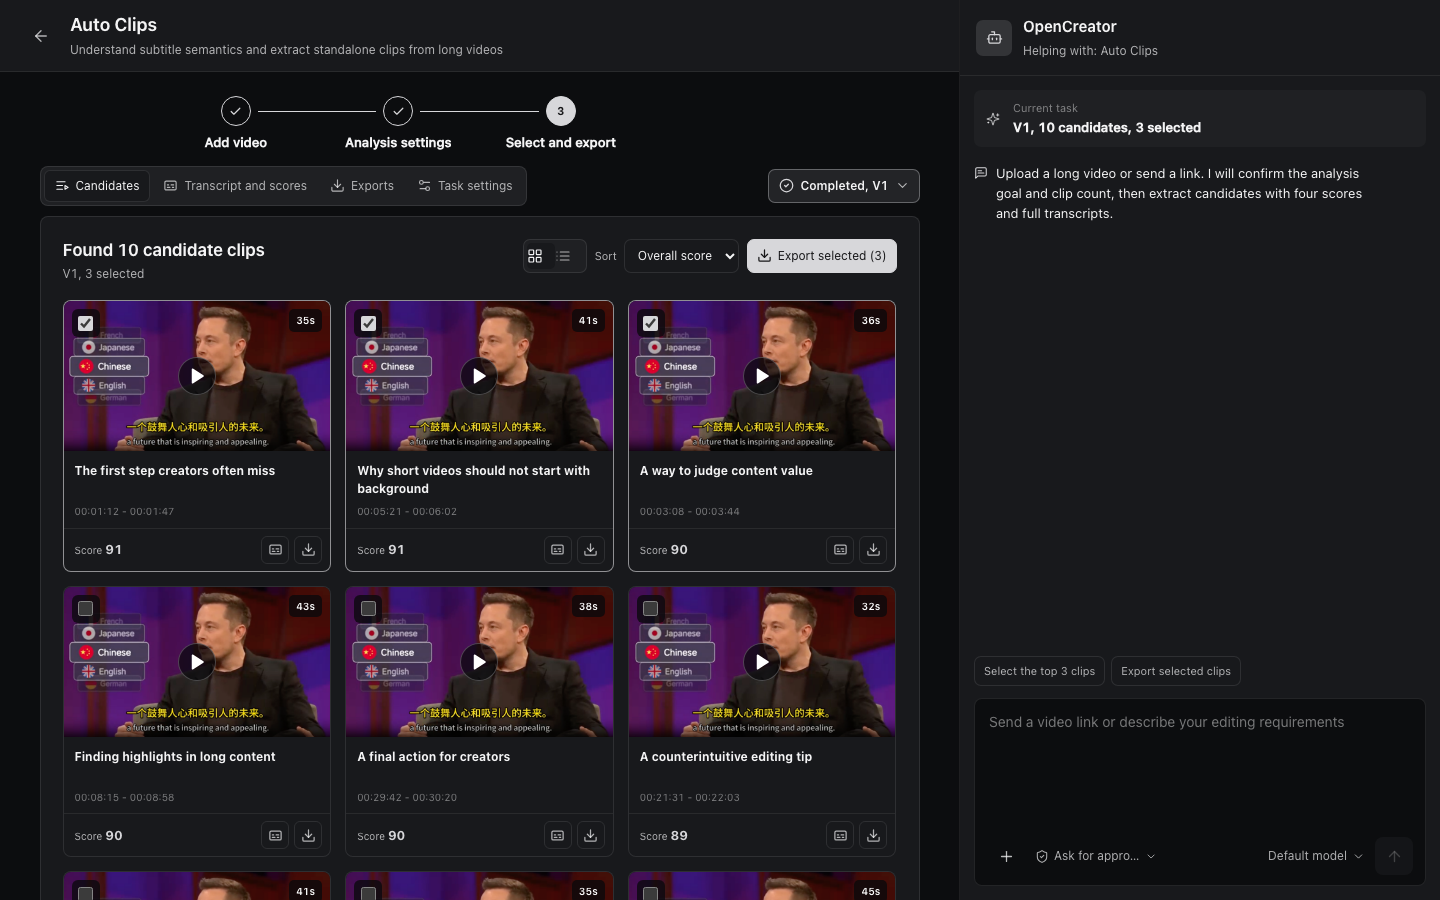
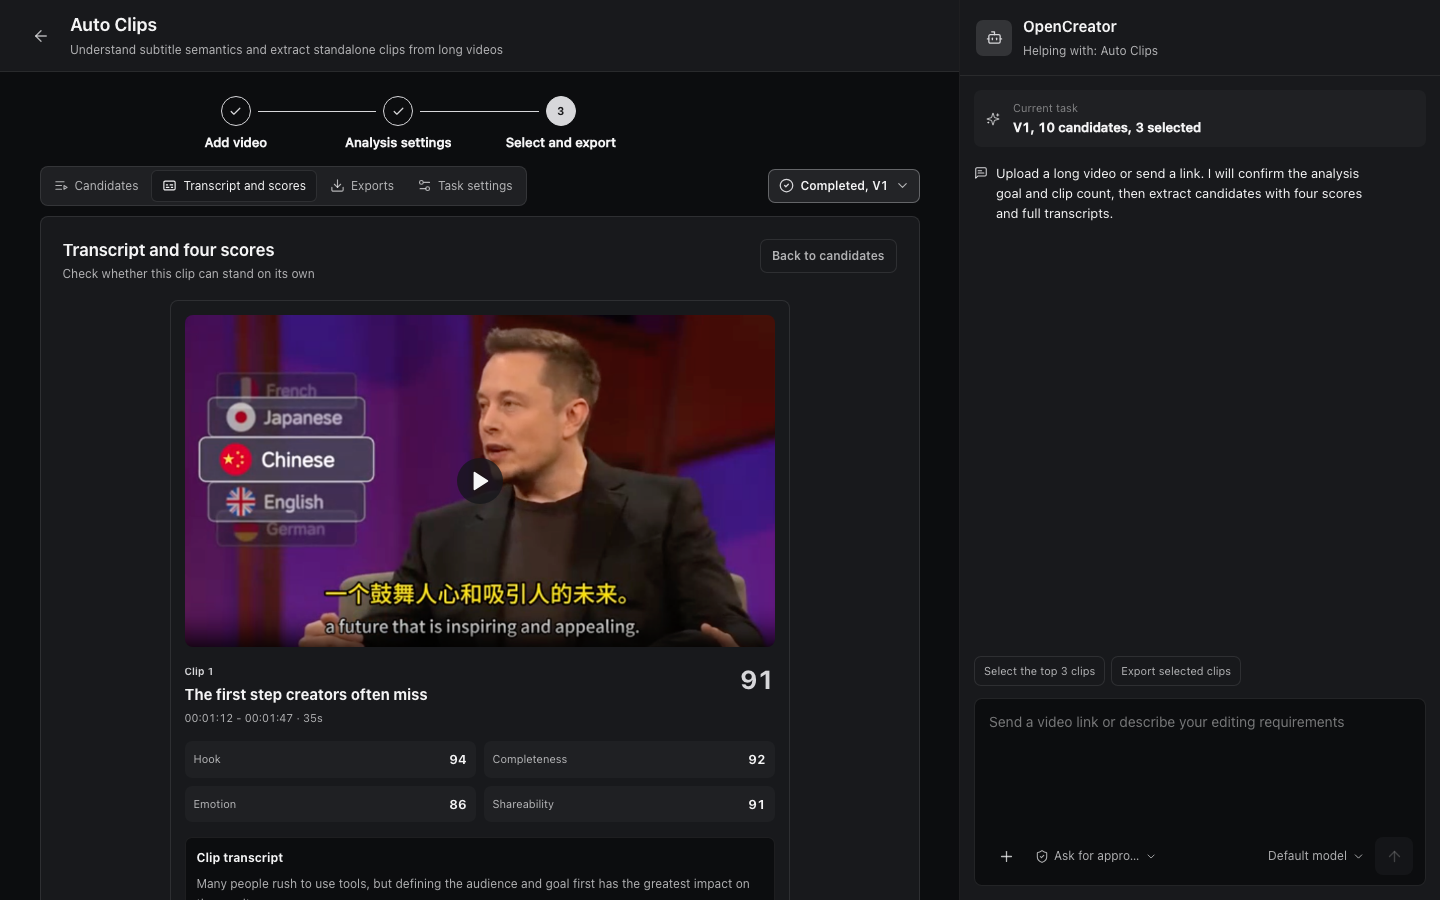
docs: show smart editing clip details

diff --git a/README.md b/README.md
@@ -137,7 +137,7 @@ https://github.com/user-attachments/assets/c2c7b528-0ef8-4ba9-b8ac-f9f92f6d4e71
 
 Turn long interviews, podcasts, lessons, and other source videos into standalone highlights. The Auto Clips workspace analyzes transcript semantics, scores each candidate for its hook, completeness, emotion, and shareability, then helps creators review, select, and export the strongest moments.
 
-![OpenCreator Smart Editing example with scored highlight clips](./docs/images/examples/opencreator-auto-clips-en.png)
+![OpenCreator Smart Editing clip detail with transcript and four scores](./docs/images/examples/opencreator-auto-clips-en.png)
 
 ### Stick Figure Animation
 

diff --git a/docs/zh/README.md b/docs/zh/README.md
@@ -137,7 +137,7 @@ https://github.com/user-attachments/assets/c2c7b528-0ef8-4ba9-b8ac-f9f92f6d4e71
 
 把访谈、播客、课程等长视频转成能够独立传播的高光片段。自动剪辑工作区会分析字幕语义，并从开头吸引力、语义完整度、情绪强度和传播潜力四个维度为候选片段评分，再帮助创作者审核、选择和导出最值得发布的内容。
 
-![OpenCreator 智能剪辑候选片段与评分案例](../images/examples/opencreator-auto-clips-en.png)
+![OpenCreator 智能剪辑片段详情、字幕与四维评分案例](../images/examples/opencreator-auto-clips-en.png)
 
 ### 火柴人动画
 
